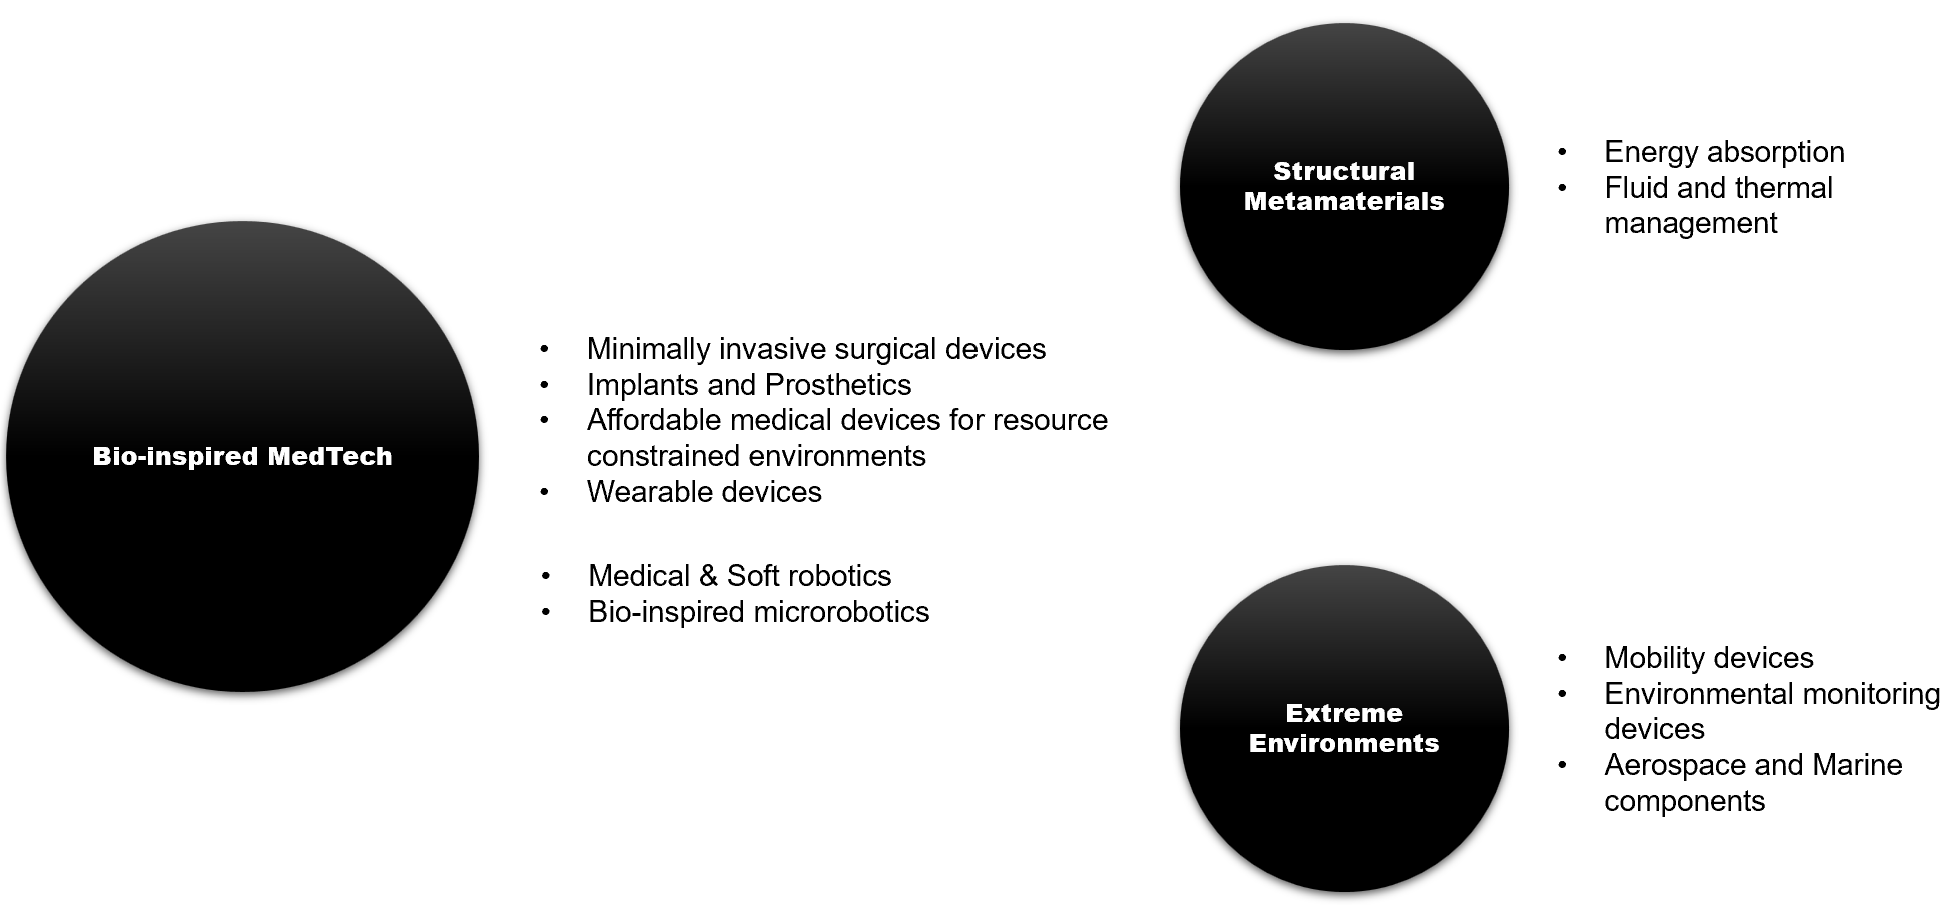
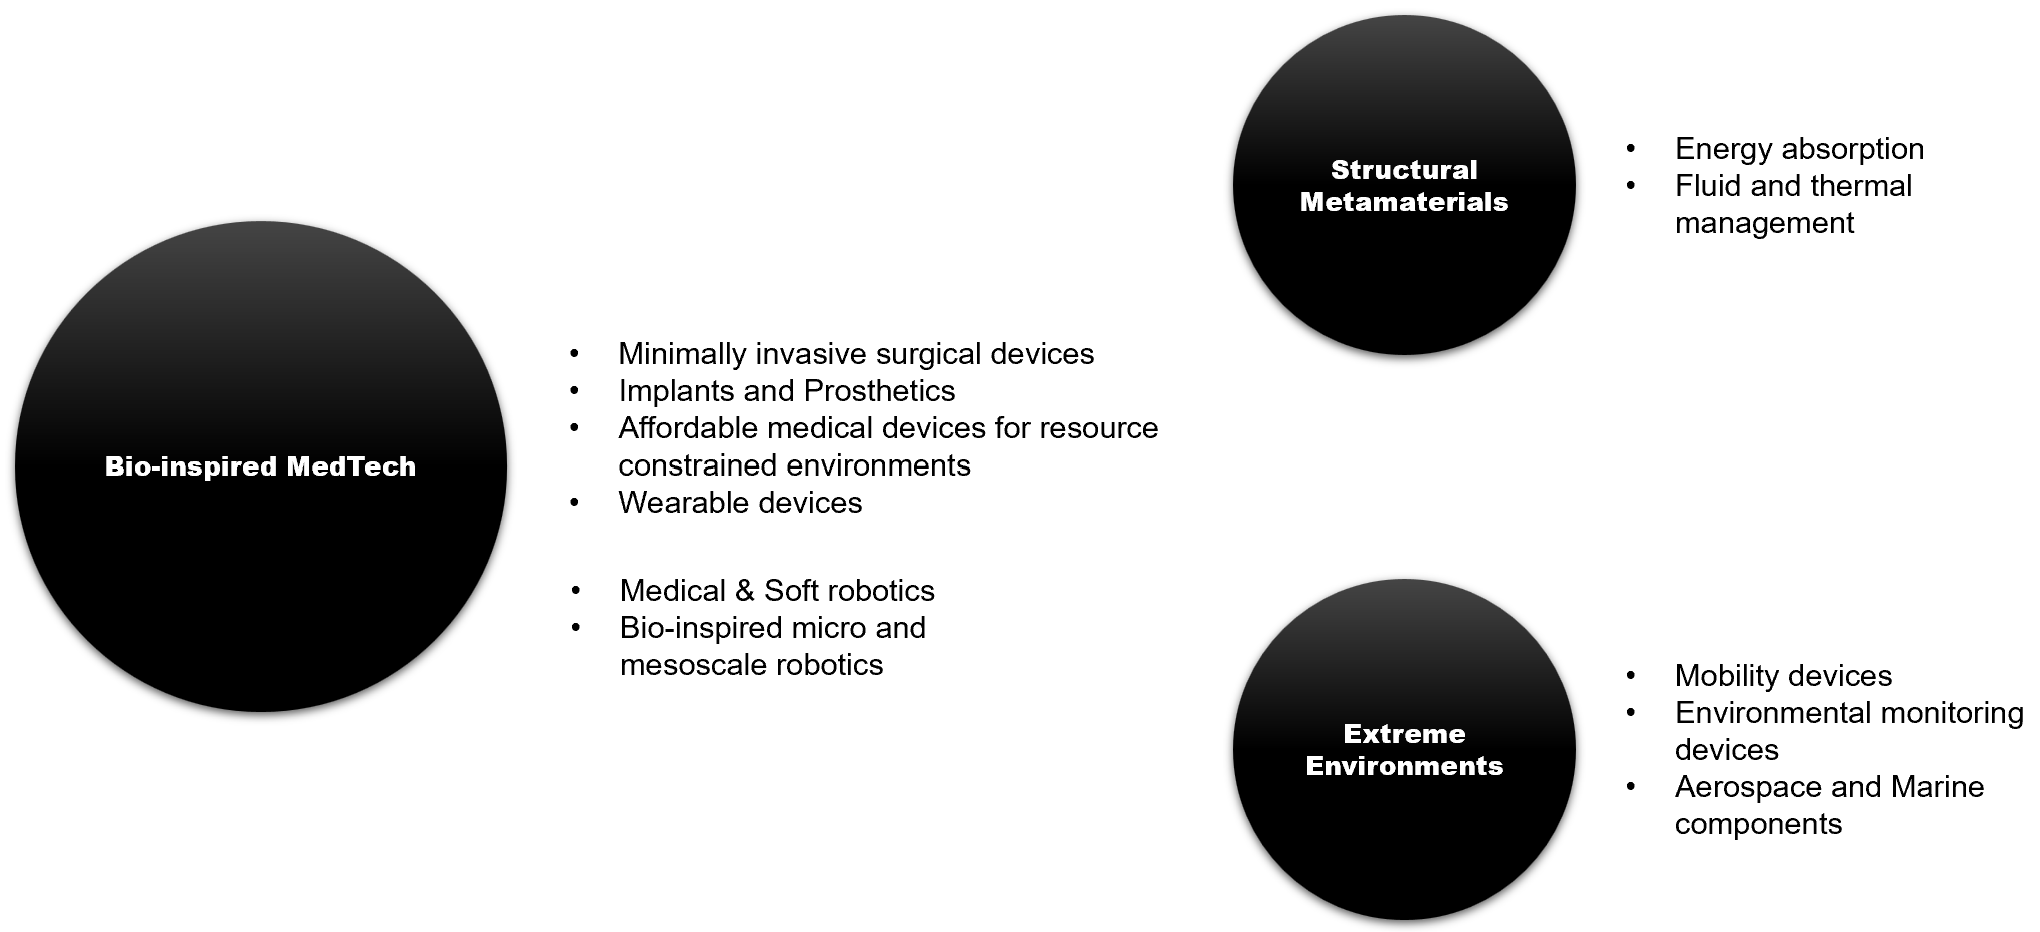
ninety six commit

diff --git a/index.html b/index.html
@@ -100,7 +100,7 @@
                     <h4><b>APPLICATION ACROSS INDUSTRIAL SECTORS</b></h4>
                 
                 
-                    <img src="images/industrial applications.png" class="img-center" width ="70%" alt="Industrial applications">
+                    <img src="images/industrial applications.png" class="img-center" width ="75%" alt="Industrial applications">
     
     
     </div>
